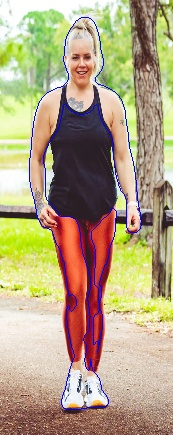
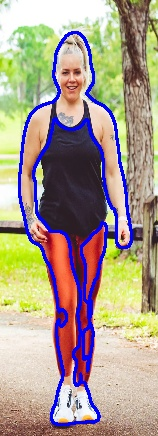
finalf

diff --git a/main.py b/main.py
@@ -7,8 +7,7 @@ def show(name):
     cv.waitKey()
     cv.destroyAllWindows()
 
-choice=input(print("Do you want to continue? Yes/No (press 'q' for No)"))
-if (choice=='Yes'):
+while True:
 
         img1= cv.imread('./1.webp')
         img_resize1=cv.resize(img1,(1000,700))
@@ -20,8 +19,8 @@ if (choice=='Yes'):
 
         with open('./img1.jpg', 'rb') as i:
             with open('./img2.jpg', 'wb') as o:
-                input = i.read()
-                output = remove(input)
+                inp = i.read()
+                output = remove(inp)
                 o.write(output)
         output=cv.imread('./img2.jpg')
         show(output)
@@ -34,7 +33,7 @@ if (choice=='Yes'):
         img_1=img_crop.copy()
         for cnt in contours:
             approx = cv.approxPolyDP(cnt, 0 * cv.arcLength(cnt, True), True)
-            cv.drawContours(img_1, [approx], -1, (255, 0, 0), 1)
+            cv.drawContours(img_1, [approx], -1, (255, 0, 0), 2)
             n = approx.ravel()
             i = 0
             for j in n:
@@ -51,12 +50,12 @@ if (choice=='Yes'):
         y_offset = crop[1]
         img_resize1[y_offset:y_offset + img_1.shape[0], x_offset:x_offset + img_1.shape[1]] = img_1
         show(img_resize1)
+        print()
 
-        #c=input("")
-        #if(c=='c'):
-        #   show(img_resize1)
+        x=input("Enter 'q' to exit OR 'y' to continue: ")
+        if(x == "q"):
+           break
 
-if (choice == 'q'):
-    print()
+
 
 

diff --git a/1.py b/1.py
@@ -25,8 +25,8 @@ if (choice=='Yes'):
 
         with open('./img1.jpg', 'rb') as i:
             with open('./img2.jpg', 'wb') as o:
-                input = i.read()
-                output = remove(input)
+                inp = i.read()
+                output = remove(inp)
                 o.write(output)
         output=cv.imread('./img2.jpg')
         show("Cropped Image",output)
